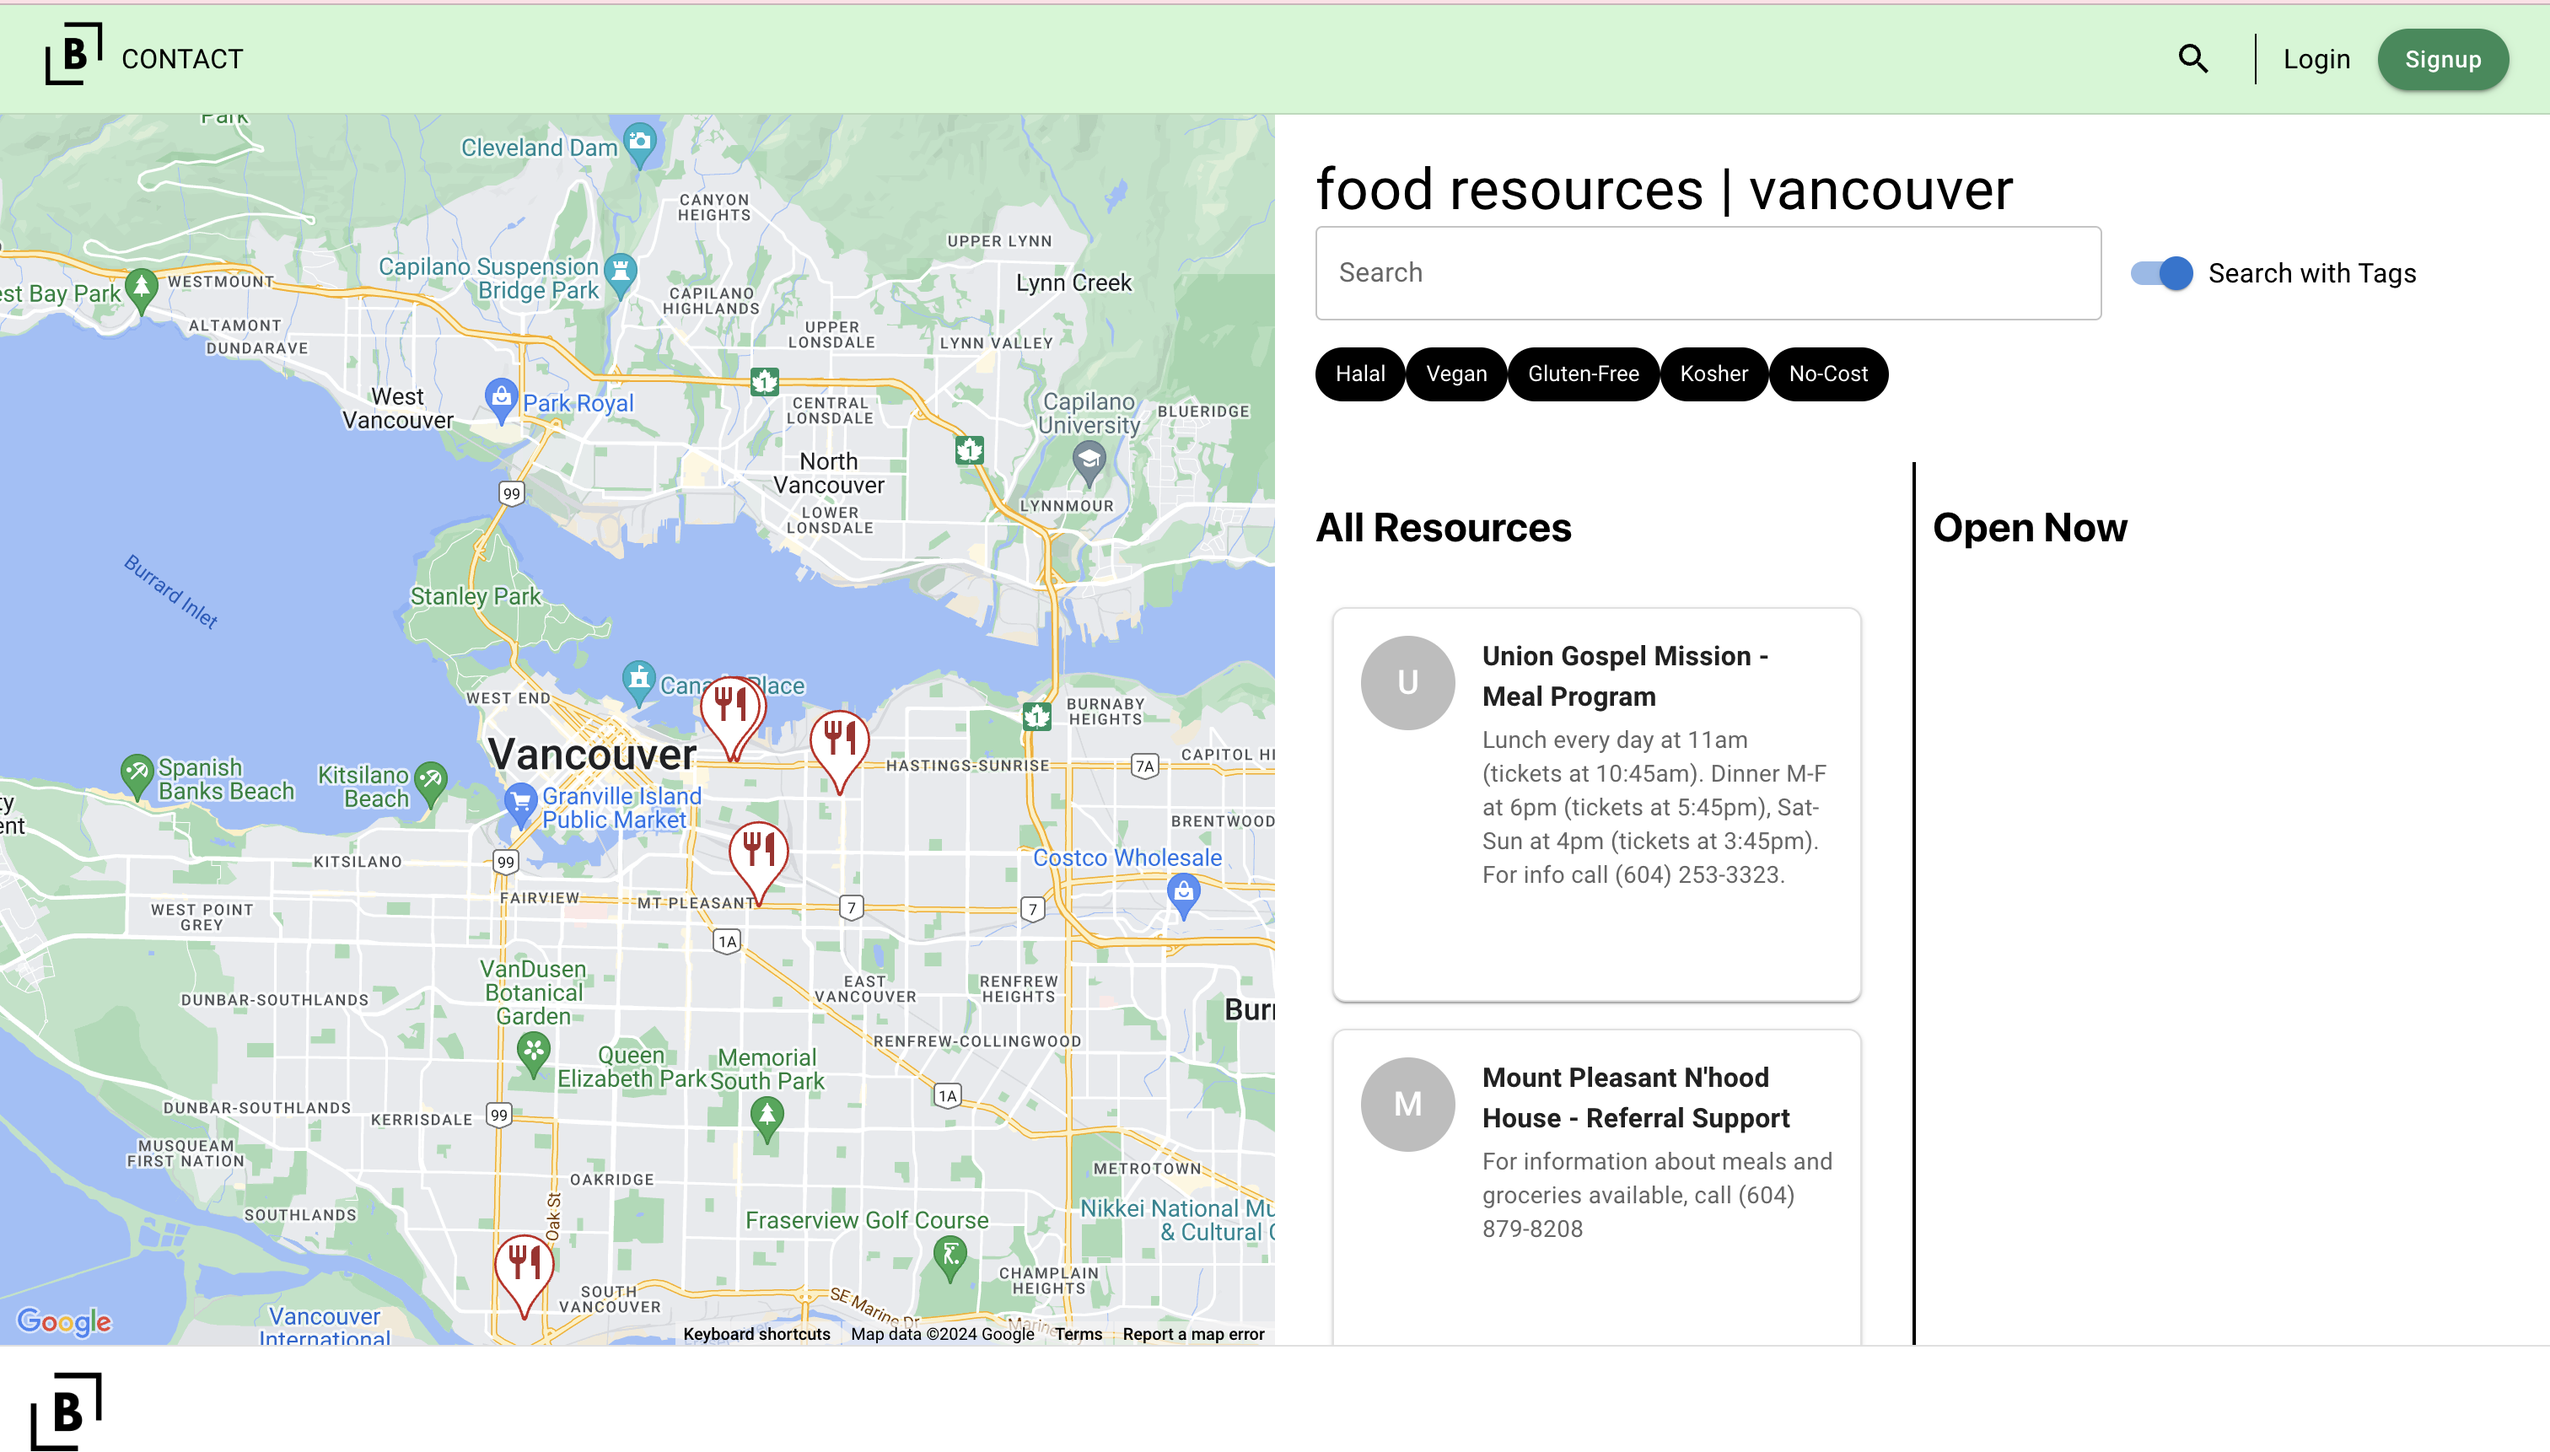
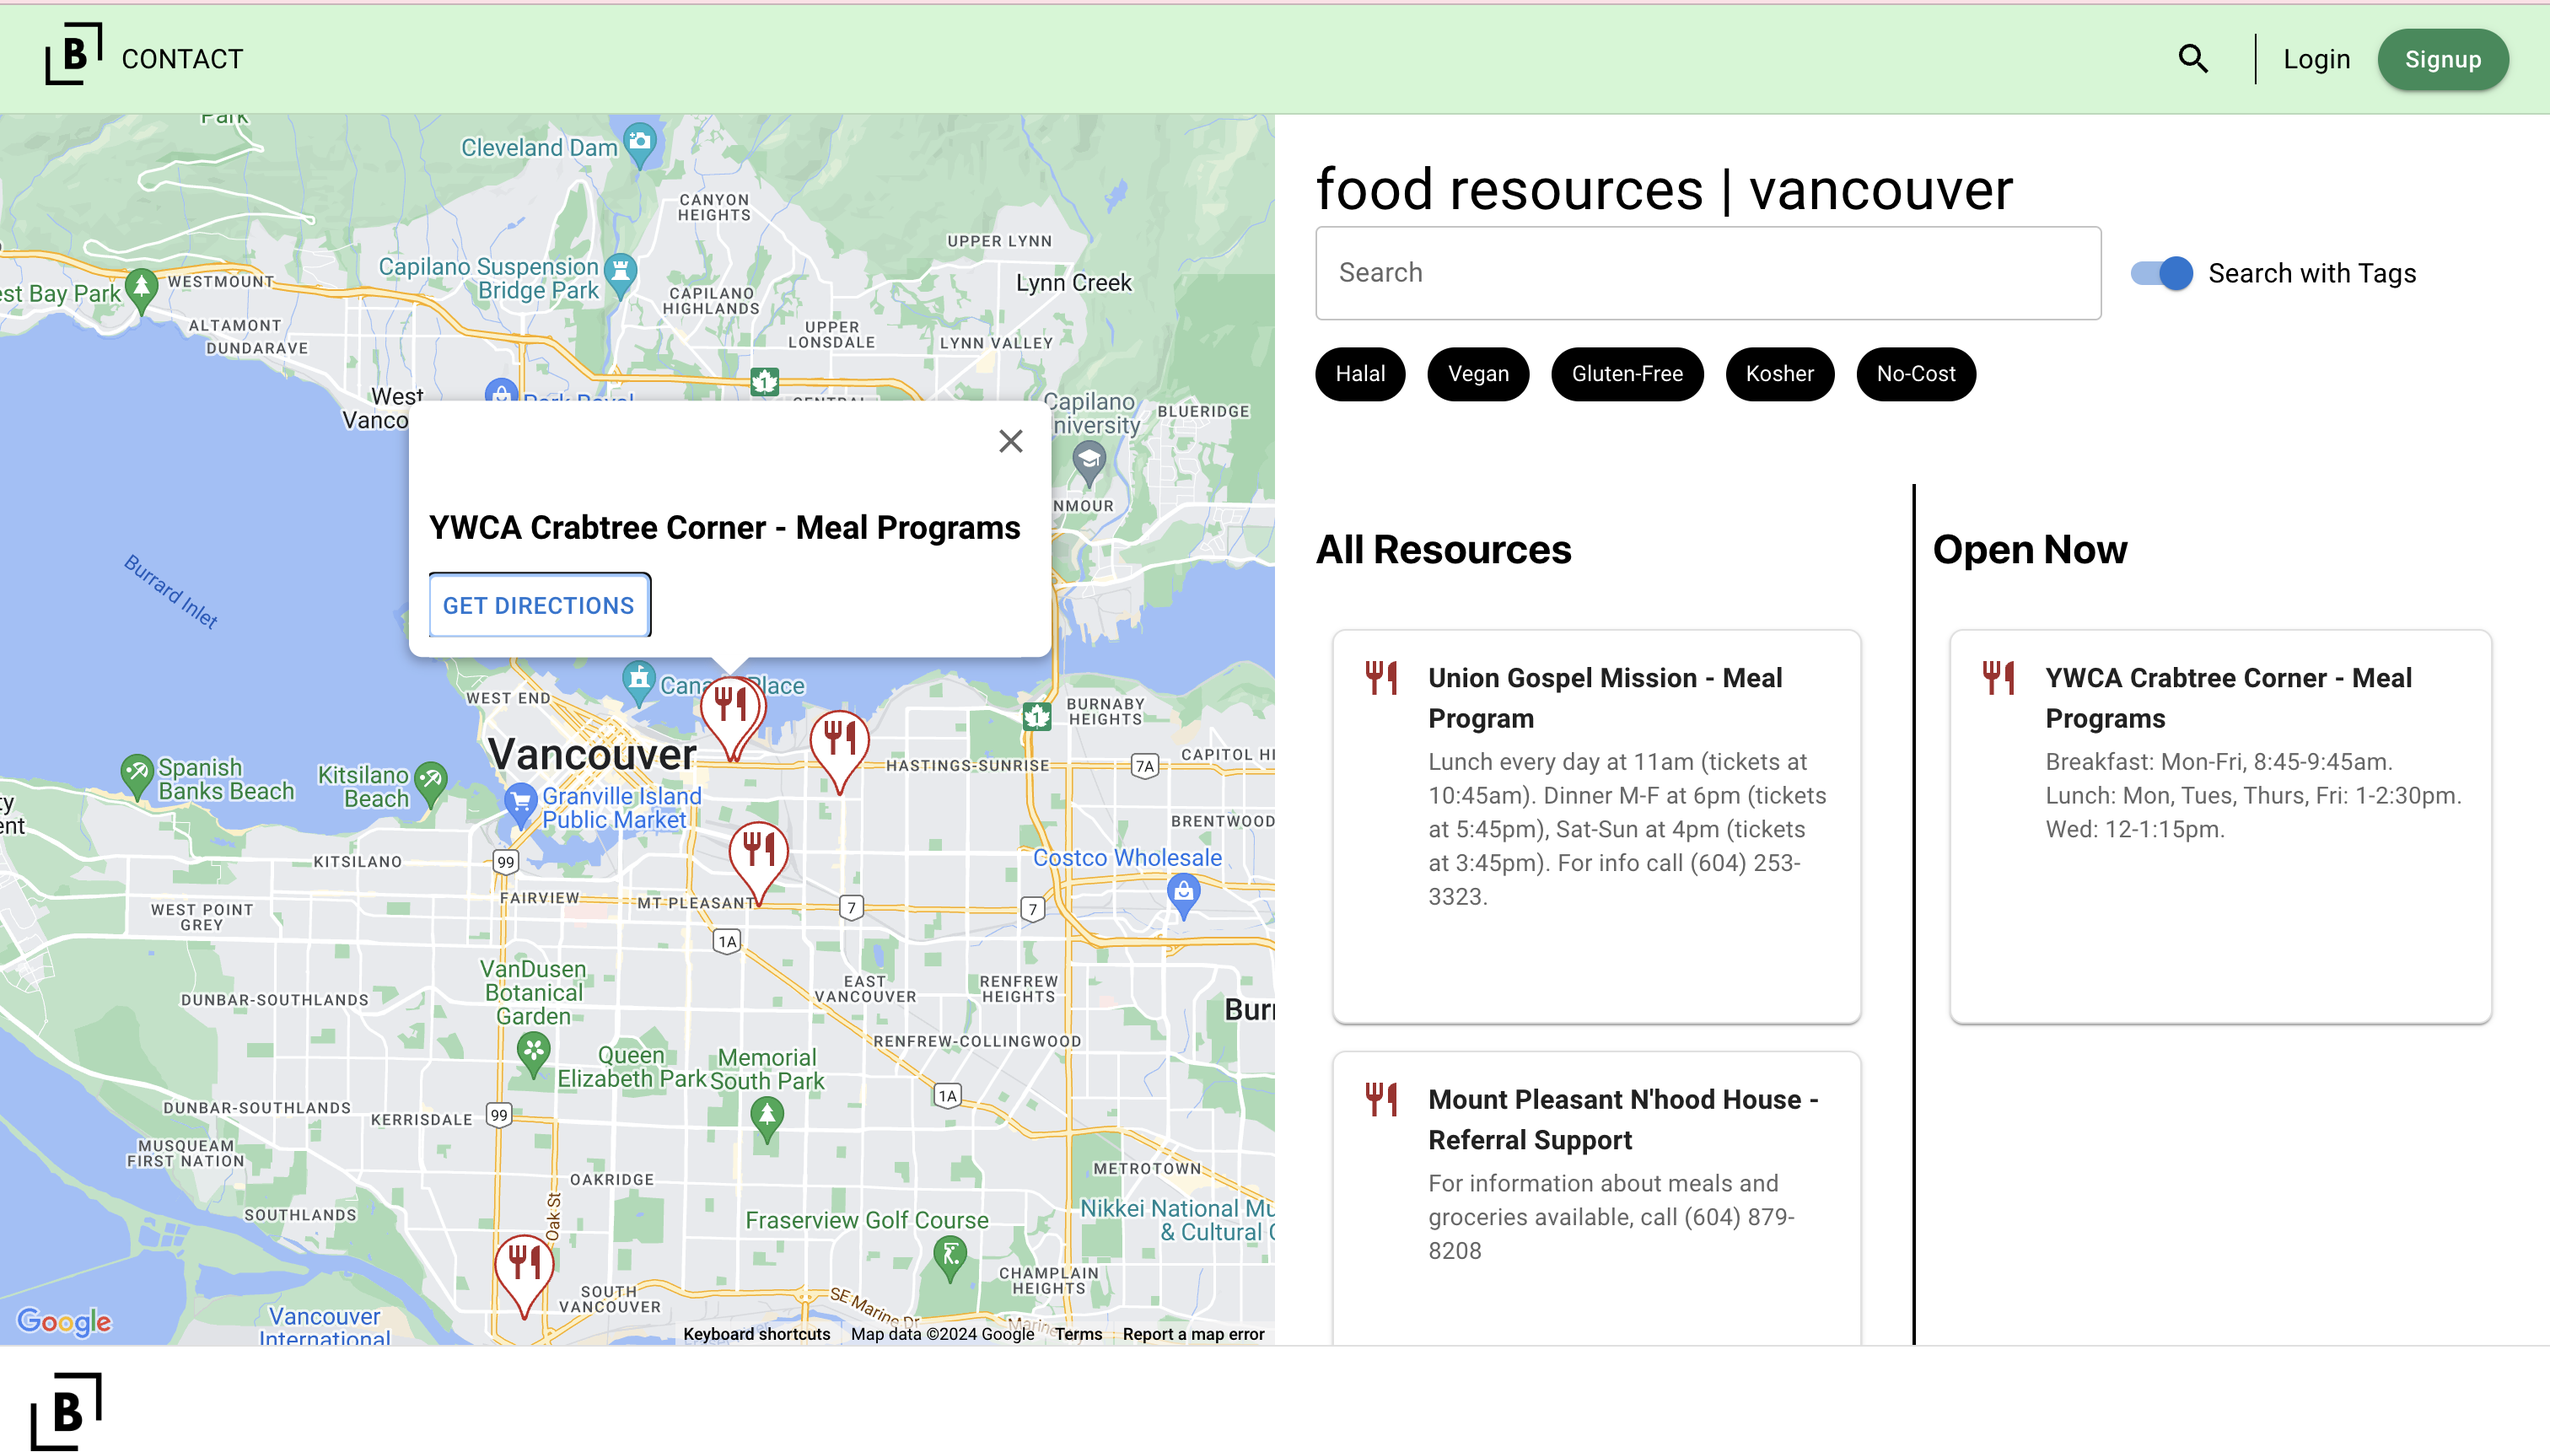
update screenshots and images in readme

diff --git a/README.md b/README.md
@@ -69,13 +69,12 @@ Care providers:
 ![View all resources page](/WebPage-Screenshots/View-All-Resources.png)
 
 - Clicking any category takes you to the Category Page, where resources are listed by category. User can search using tags, or manually enter the name of the location they're looking for. The MapCard component, which renders in different forms (the most general form occuring when a city is selected and all resources are loaded), shows only those resources that are within the selected category.
+
+- Across all map views/renderings of the MapCard component, clicking on a map-marker renders a feature of the "Advance Marker" component which provides a button leading to real time Google directions. 
 ![View all resources in category](/WebPage-Screenshots/View-All-Resources-in-Category.png)
 
 - Clicking on a particular resource takes you to the Resource Detail page, which loads the most specific version of the MapCard with just a single location and a description of the services provided + the associated tags. 
 ![View resource details page](/WebPage-Screenshots/View-Resource-Details.png)
-
-- Across all map views/renderings of the MapCard component, clicking on a map-marker renders a feature of the "Advance Marker" component which provides a button leading to real time Google directions. 
-![Click resource marker](/WebPage-Screenshots/Click-Resource-Marker.png)
 
 ### Endpoints
 
